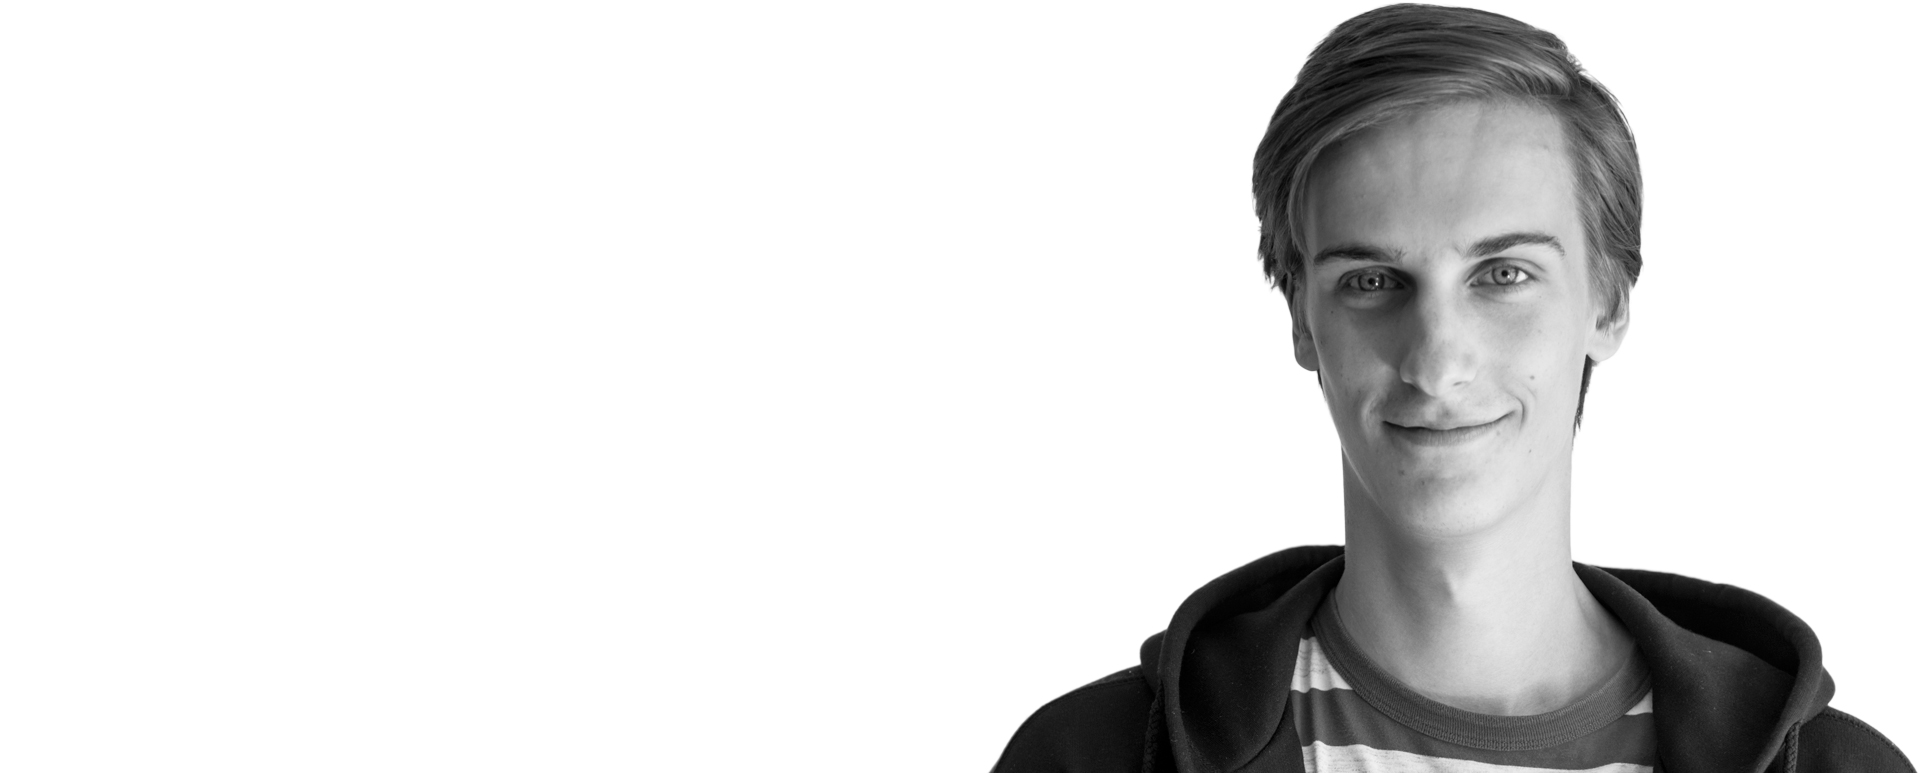
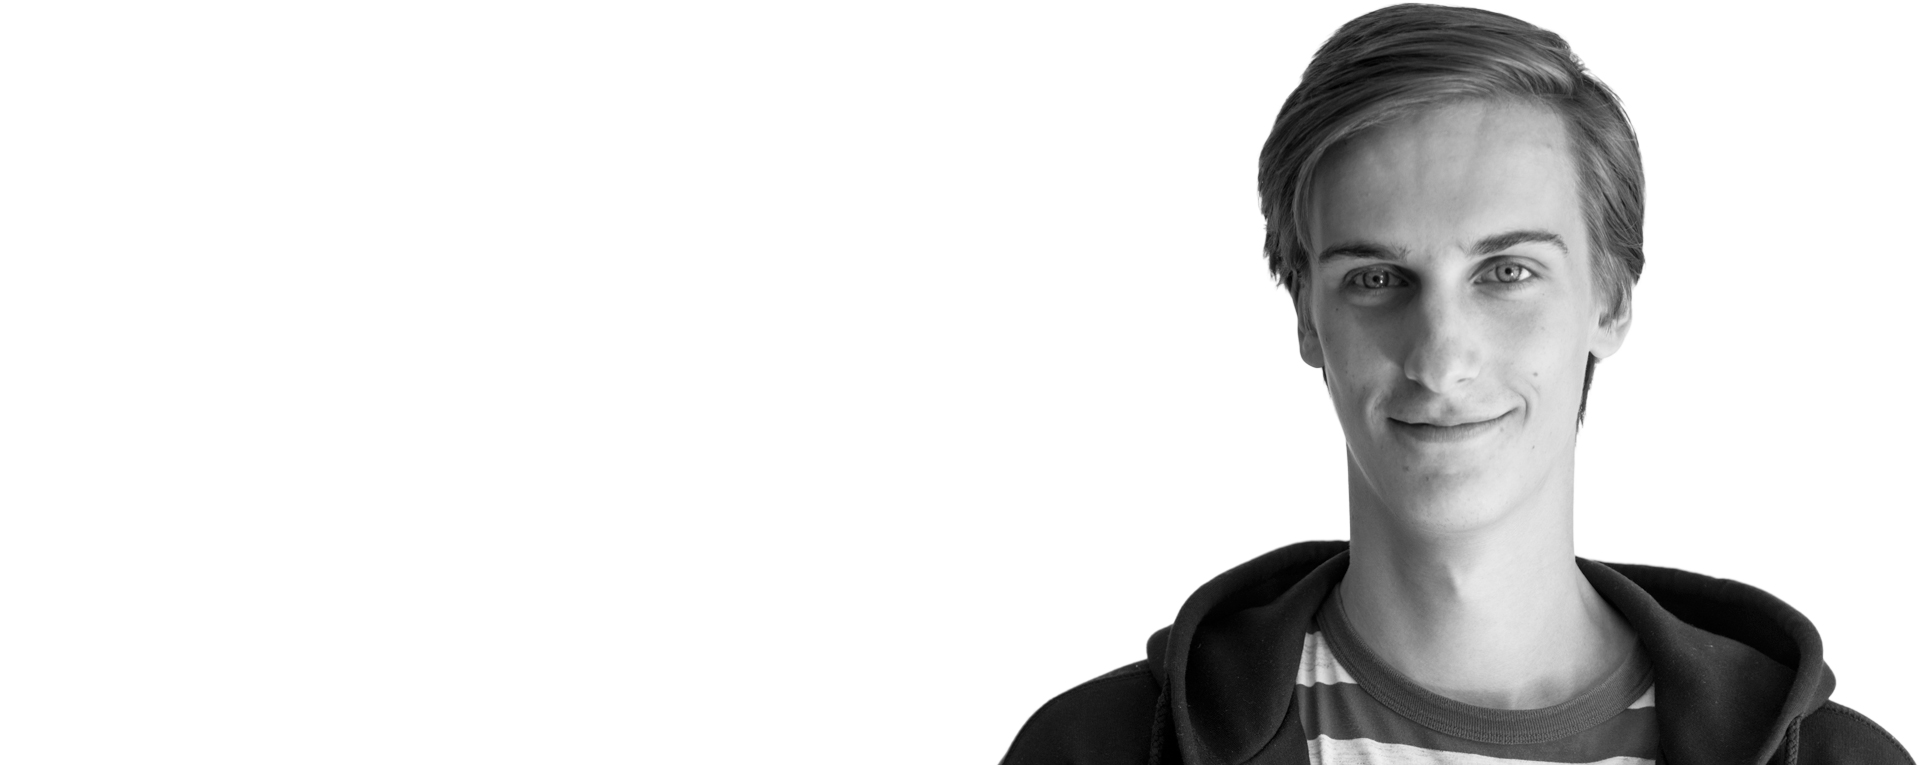
spelling and minor css fix

diff --git a/index.html b/index.html
@@ -38,7 +38,7 @@
             <div>
               <div class="text-left">
                 <h3>Hi! I'm a M.Sc. student who likes programming and making cool things.</h3>
-                <h3>I am currently on the lookout for an interesting internship for my dissertation.</h3>
+                <h3>I am currently on the lookout for an interesting internship for my master's thesis.</h3>
                 <h3>Scroll down to look at some things I've done.</h3>
                 <br>
                 <h3><a href="mailto:micke.zackrisson@gmail.com">micke.zackrisson@gmail.com</a></h3>

diff --git a/css/style.css b/css/style.css
@@ -40,7 +40,7 @@ h2 {
 }
 
 h3 {
-  font-size: 1.3em;
+  font-size: 1.2em;
   margin: 0 0 0.8em 0;
 }
 
@@ -80,7 +80,7 @@ section {
 }
 
 @media(max-width:1199px){ .parallax { background-image: none;}}
-@media(min-width:1200px){ .parallax { background-image: url("../img/mike2.jpg");}}
+@media(min-width:1200px){ .parallax { background-image: url("../img/mike.jpg");}}
 
 .things {
   /*background-color: white*/
